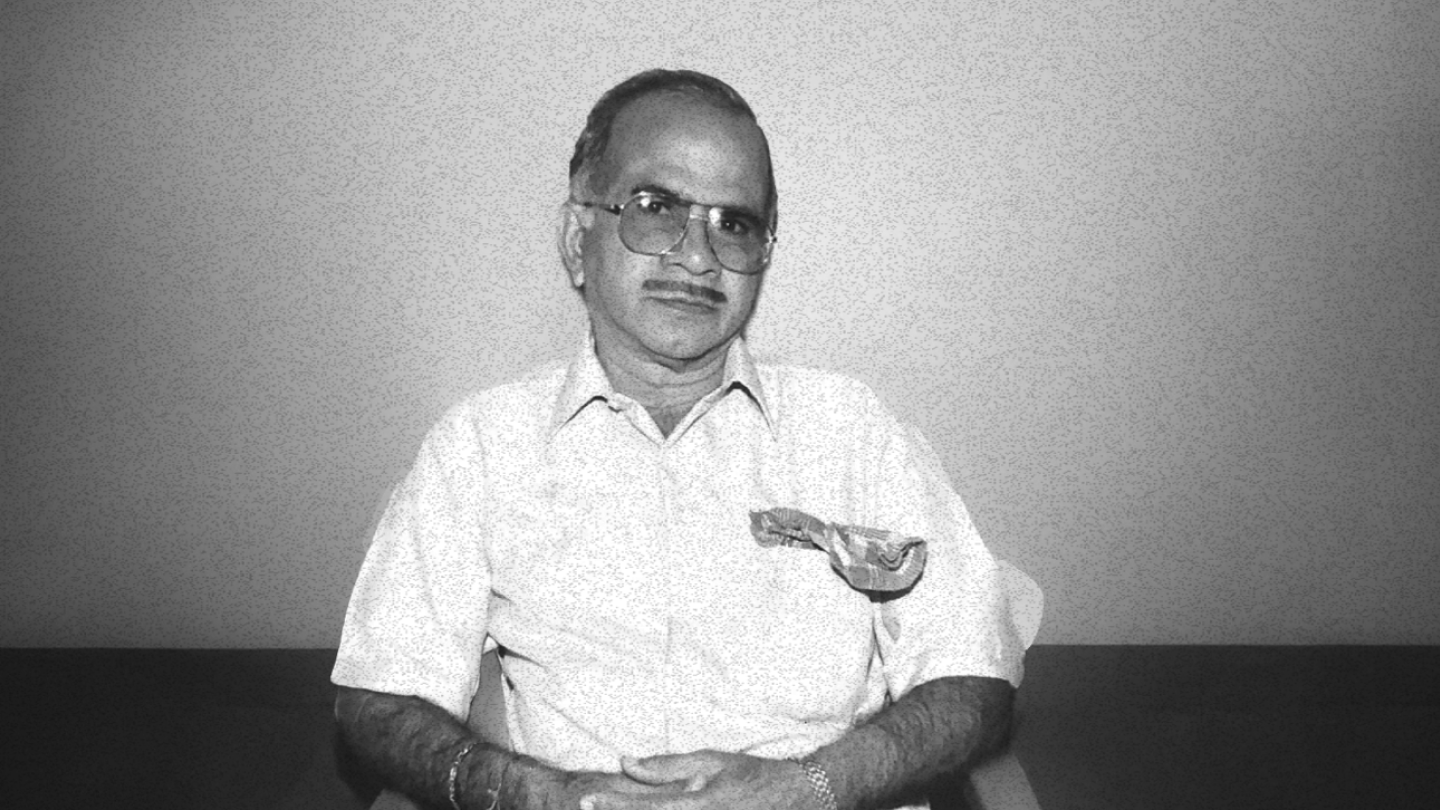
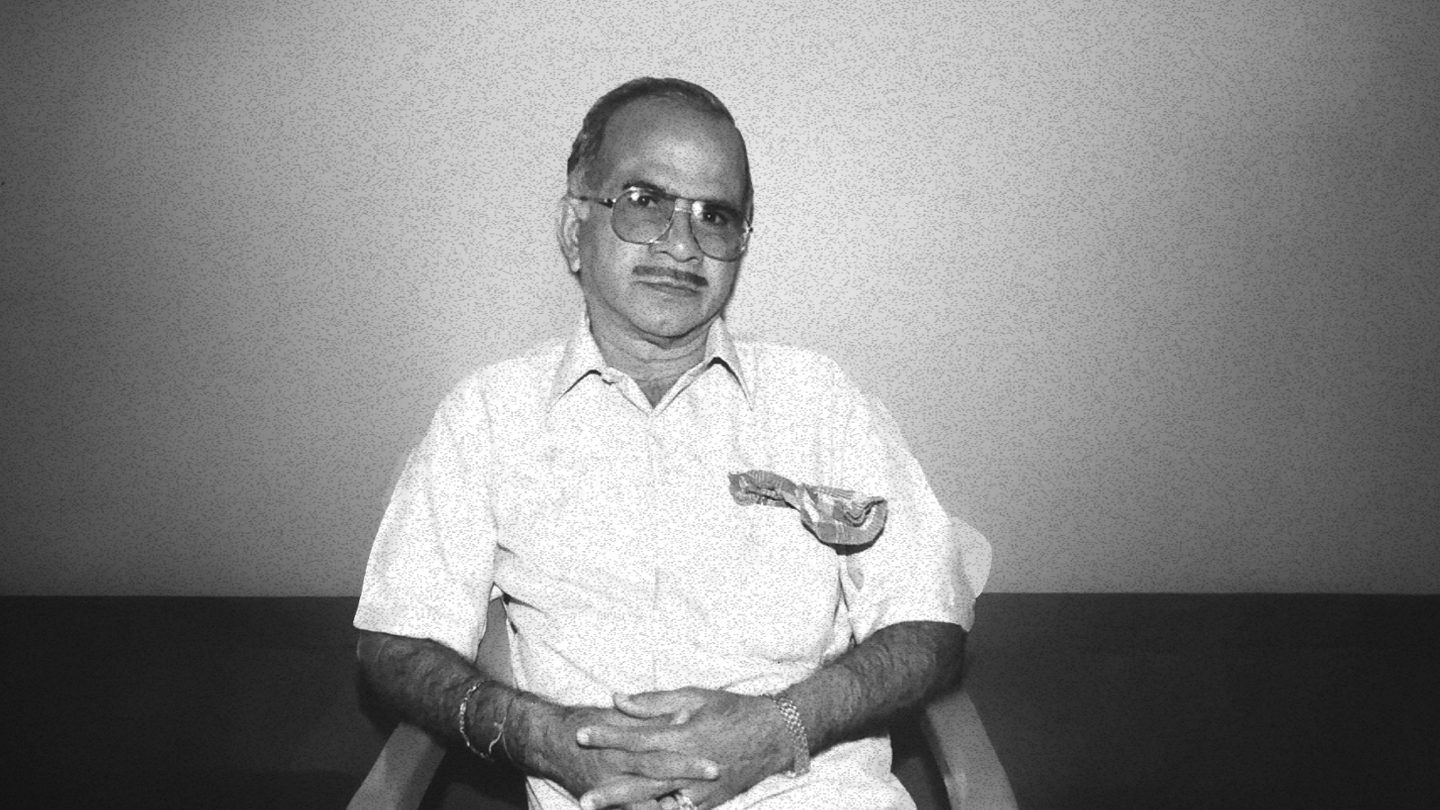
founder message completed

diff --git a/src/components/StorySection/StorySection.tsx b/src/components/StorySection/StorySection.tsx
@@ -1,4 +1,3 @@
-"use client";
 import { useEffect, useRef, useState } from "react";
 import { gsap } from "gsap";
 import { ScrollTrigger } from "gsap/ScrollTrigger";
@@ -7,7 +6,7 @@ import Heading from "../Common/Heading";
 
 gsap.registerPlugin(ScrollTrigger);
 
-const images: { src: string; year: string; message: string }[] = [
+const images = [
   {
     src: "/images/timelineImages/timelineImage1.png",
     year: "1956",
@@ -35,7 +34,7 @@ const images: { src: string; year: string; message: string }[] = [
   },
   {
     src: "/images/timelineImages/timelineImage6.png",
-    year: "2003-2012",
+    year: "2003",
     message: "Facing Challenges, Emerging Stronger",
   },
   {
@@ -47,26 +46,36 @@ const images: { src: string; year: string; message: string }[] = [
     src: "/images/timelineImages/timelineImage8.png",
     year: "2024",
     message: "Continuing the Legacy",
-  },
+  }
 ];
+
+function YearDisplay({ number }: { number: number }) {
+  return (
+    <span className="inline-block w-[1ch] transition-transform duration-500">
+      {number}
+    </span>
+  );
+}
 
 export default function StorySection() {
   const containerRef = useRef<HTMLDivElement>(null);
-  const [imagesLoaded, setImagesLoaded] = useState<number>(0);
+  const storySectionRef = useRef<HTMLDivElement>(null); // Ref for Story Section
+  const [currentYear, setCurrentYear] = useState(images[0].year);
+  const [showYearDisplay, setShowYearDisplay] = useState(false); // State to control visibility of year display
+  const [progress, setProgress] = useState(0);
 
   useEffect(() => {
     const container = containerRef.current;
     const sections = gsap.utils.toArray<HTMLElement>(".section");
 
-    // Create a wrapper for horizontal scrolling
     gsap.set(container, { height: "100vh" });
     gsap.set(".sections-wrapper", {
-      width: sections.length * 100 + "%",
+      width: sections.length * 100 + "%" ,
       display: "flex",
+      overflow: "hidden", 
     });
     gsap.set(sections, { width: 100 / sections.length + "%" });
 
-    // Set up horizontal scrolling
     gsap.to(".sections-wrapper", {
       x: () => -(container?.scrollWidth ?? 0 - window.innerWidth),
       ease: "none",
@@ -75,17 +84,44 @@ export default function StorySection() {
         pin: true,
         scrub: 1,
         end: () => (container ? container.scrollWidth - window.innerWidth : 0),
-        invalidateOnRefresh: true, // Ensure ScrollTrigger recalculates on refresh
+        invalidateOnRefresh: true,
+        onUpdate: (self) => {
+          const totalSections = images.length-1;
+          const currentIndex = Math.min(
+            Math.floor(self.progress * totalSections),
+            totalSections - 1
+          );
+          setCurrentYear(images[currentIndex].year);
+          setProgress(self.progress * 100);
+        },
       },
     });
+    // gsap.to(sections, {
+    //   xPercent: -100 * (sections.length - 1),
+    //   ease: "none",
+    //   scrollTrigger: {
+    //     trigger: container,
+    //     pin: true,
+    //     scrub: 1,
+    //     end: () => `+=${container.offsetWidth}`,
+    //     invalidateOnRefresh: true,
+    //     onUpdate: (self) => {
+    //       const progress = self.progress * 100;
+    //       if (pathRef.current) {
+    //         // Sync SVG path drawing with the scroll progress
+    //         pathRef.current.setAttribute(
+    //           "stroke-dasharray",
+    //           `${progress} ${100 - progress}`
+    //         );
+    //       }
+    //     },
+    //   },
+    // });
 
-    // Force ScrollTrigger refresh after images have fully loaded
-    ScrollTrigger.refresh();
-  }, [imagesLoaded]);
-
-  const handleImageLoad = () => {
-    setImagesLoaded((prev) => prev + 1);
-  };
+    return () => {
+      ScrollTrigger.killAll();
+    };
+  }, []);
 
   return (
     <div className="app overflow-hidden font-sans">
@@ -93,7 +129,7 @@ export default function StorySection() {
       <div className="pt-[128px] pb-[107px] text-center">
         <SubHeading className="pb-6 text-2xl">
           From the welcoming comfort at your doorstep to the serene spaces
-          designed just for you{" "}
+          designed just for you
         </SubHeading>
         <Heading className="">
           At Vitu, Every Design Feels Like Home—Because It Is
@@ -112,18 +148,11 @@ export default function StorySection() {
               <div className="w-full h-full">
                 <img
                   src={image.src}
-                  alt={`Scene ${index + 1}`}
+                  alt={`Scene ${index }`}
                   className="w-full h-full object-cover"
-                  onLoad={handleImageLoad}
                 />
 
-                {/* Overlay for Darker Background */}
-                <div className="absolute inset-0 bg-black/30" />
-
-                {/* Year and Message */}
-                <div className="absolute bottom-8 left-8 text-white">
-                  <p className="text-2xl md:text-3xl font-bold">{image.year}</p>
-                </div>
+                {/* Message */}
                 <div className="absolute bottom-8 right-8 text-white">
                   <p className="text-lg md:text-xl font-medium">
                     {image.message}
@@ -132,6 +161,19 @@ export default function StorySection() {
               </div>
             </div>
           ))}
+        </div>
+        <div className="absolute bottom-0 left-0 right-0 h-16 bg-gradient-to-t from-black/50 to-transparent">
+          <div className="absolute bottom-4 left-1 right-1">
+            <div className="relative h-[2px] w-full">
+              {/* Background line */}
+              <div className="absolute inset-0 bg-white/20" />
+              {/* Progress line */}
+              <div
+                className="absolute inset-y-0 left-0 bg-gradient-to-r from-indigo-300 to-purple-300 transition-all duration-300"
+                style={{ width: `${progress}%` }}
+              />             
+            </div>
+          </div>
         </div>
       </div>
     </div>

diff --git a/src/components/FounderMessage/FounderMessage.tsx b/src/components/FounderMessage/FounderMessage.tsx
@@ -1,0 +1,40 @@
+import YouTube from "react-youtube";
+import { PlayIcon } from "../Icons/Icons";
+
+export default function FounderMessage() {
+  const opts = {
+    playerVars: {
+      iv_load_policy: 3, // Hides video annotations
+      rel: 0, // Prevents showing related videos
+      modestbranding: 1, // Minimizes YouTube branding
+      playsinline: 1, // Allows inline playback on iOS
+      autoplay: 0, // Disables autoplay
+    },
+  };
+
+  return (
+    <div className="flex justify-center flex-col items-center lg:pt-[200px] lg:pb-[160px] xl:pt-[160px] xl:pb-[164px] sm:pb-[43px] sm:pt-[34px]">
+      <div className="xl:w-[1355.89px] xl:h-[775.07px] lg:w-[1150.28px] lg:h-[657.54px] rounded-2xl overflow-hidden">
+        {/* Wrapper with rounded corners and hidden overflow */}
+        <YouTube
+          videoId="UKag4LVAEdU"
+          opts={{
+            width: "100%",
+            height: "100%",
+            ...opts,
+          }}
+          className="w-full h-full"
+        />
+      </div>
+      <div>
+        <button
+          className="mt-[60px] bg-[#815C46] text-white pr-1  pl-[18px] py-[3px] rounded-full flex items-center justify-center gap-[11px] text-base font-freightNeoMedium"
+          onClick={() => console.log("Button clicked")}
+        >
+          Watch the Full Video
+          <PlayIcon />
+        </button>
+      </div>
+    </div>
+  );
+}

diff --git a/src/components/Icons/Icons.tsx b/src/components/Icons/Icons.tsx
@@ -373,14 +373,14 @@ export function CTAButtonIcon() {
       <circle cx="13.5" cy="13.5" r="13.5" fill="#614130" />
       {/* Arrow */}
       <path
-        d="M16.5 14.74L13.5 17.74L10.5 14.74"  /* Adjusted coordinates for arrow head */
+        d="M16.5 14.74L13.5 17.74L10.5 14.74" /* Adjusted coordinates for arrow head */
         stroke="white"
         strokeWidth="1.5"
         strokeLinecap="round"
         strokeLinejoin="round"
       />
       <path
-        d="M13.5 17.74V9.5"  /* Adjusted coordinates for arrow stem */
+        d="M13.5 17.74V9.5" /* Adjusted coordinates for arrow stem */
         stroke="white"
         strokeWidth="1.5"
         strokeLinecap="round"
@@ -388,3 +388,28 @@ export function CTAButtonIcon() {
     </svg>
   );
 }
+
+export function PlayIcon() {
+  return (
+    <svg
+    width="34"
+    height="33"
+    viewBox="0 0 34 33"
+    fill="none"
+    xmlns="http://www.w3.org/2000/svg"
+  >
+
+    <ellipse cx="17.007" cy="16.5497" rx="16.6789" ry="15.913" fill="#614130" />
+  
+
+    <polygon
+      points="13,11 13,22 21,16.5"
+      fill="white"
+      transform="translate(2, 0)"
+    />
+  </svg>
+  
+  );
+}
+
+

diff --git a/src/app/about/page.tsx b/src/app/about/page.tsx
@@ -2,6 +2,7 @@
 
 
 import AboutHeroSection from "@/components/AboutHeroSection/AboutHeroSection";
+import FounderMessage from "@/components/FounderMessage/FounderMessage";
 
 import Layout from "@/components/Layout/Layout";
 import StorySection from "@/components/StorySection/StorySection";
@@ -17,7 +18,8 @@ export default function About() {
       }}
     >
       <AboutHeroSection />
-      <StorySection />
+      {/* <StorySection /> */}
+      <FounderMessage />
     </Layout>
   );
 }
